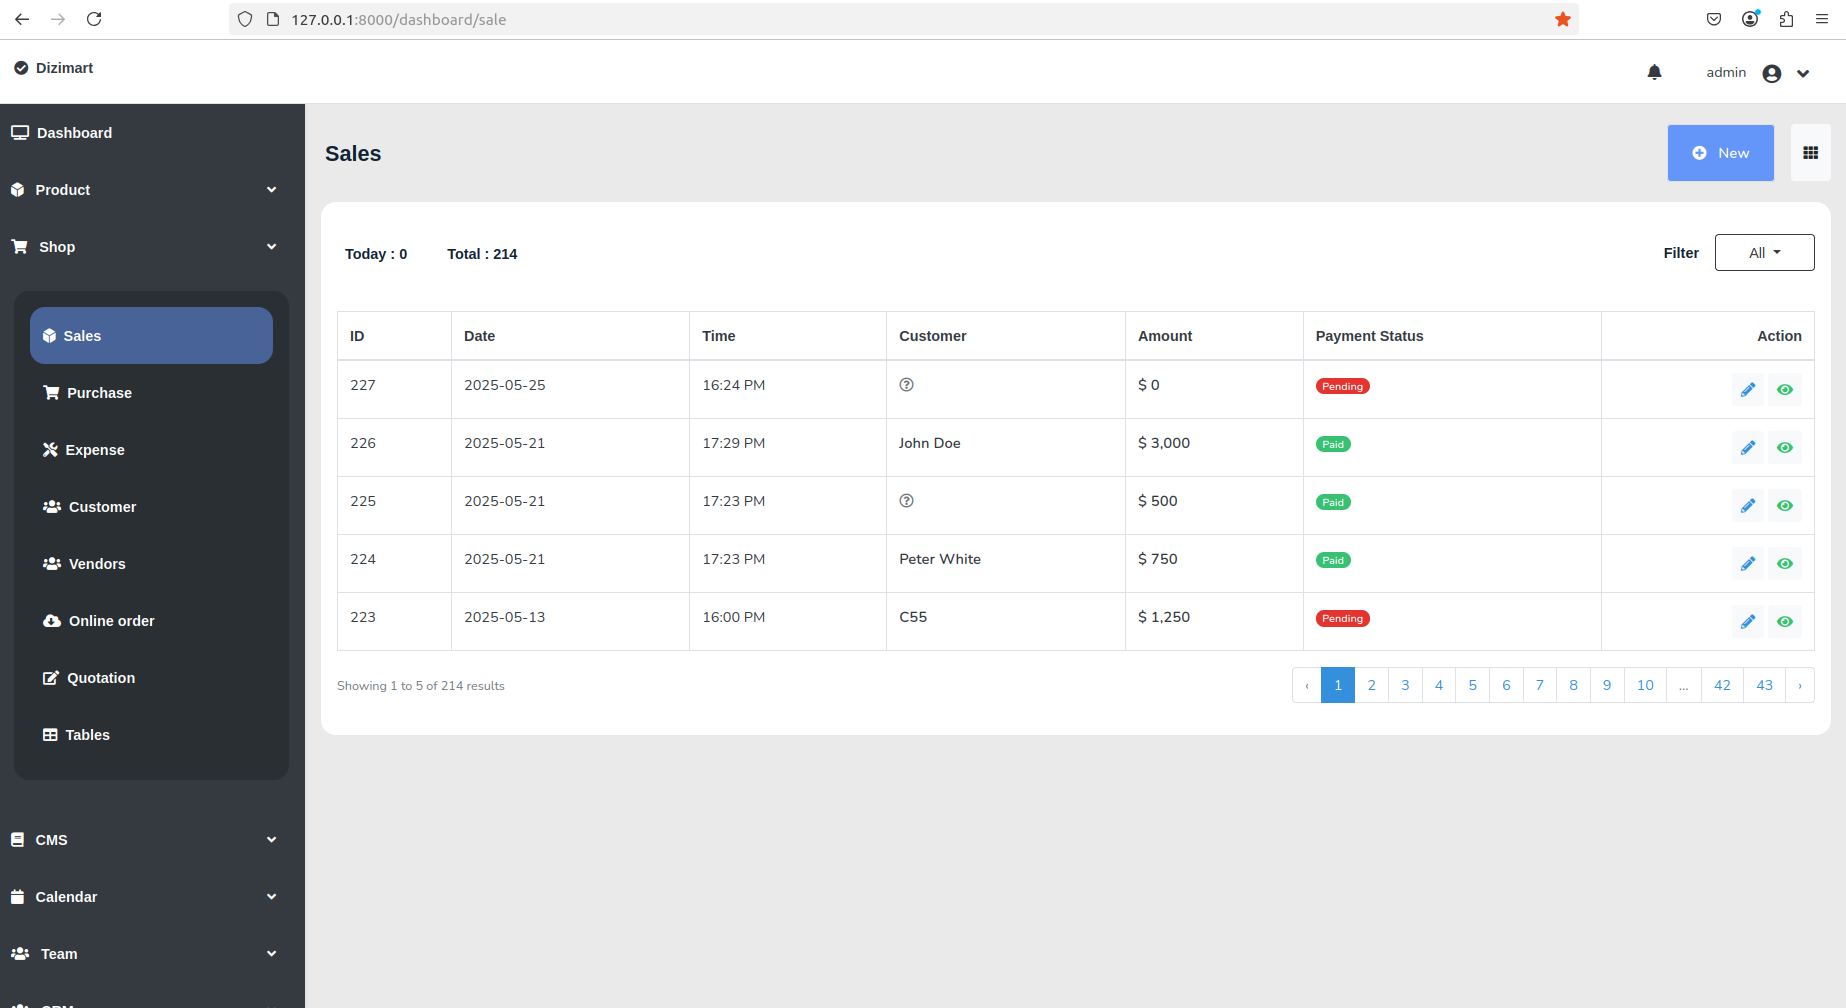
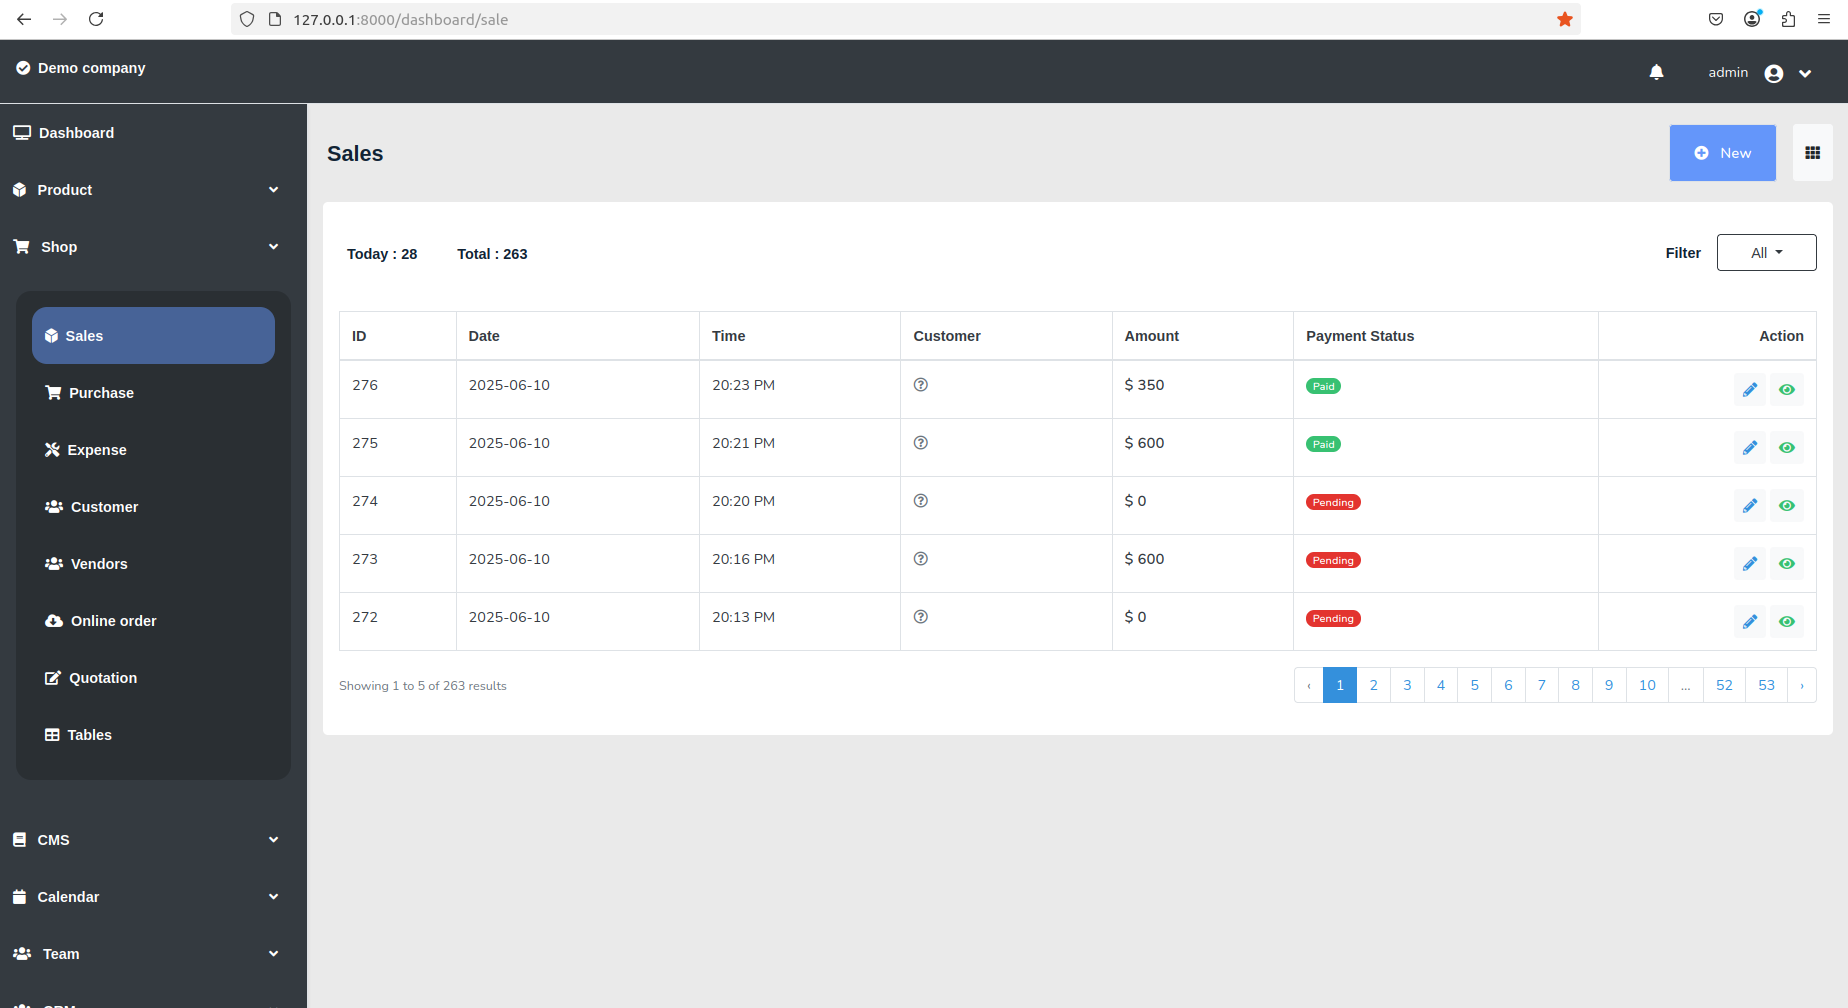
README updates; config update; screenshot updates

diff --git a/config/app.php b/config/app.php
@@ -83,8 +83,8 @@ return [
     'app_menu_normal_button_text_color'   => 'text-white',
     'app_menu_bg_color'                   => 'bg-dark',
 
-    'app_top_menu_bg_color'               => 'bg-white',
-    'app_top_menu_text_color'             => 'text-dark',
+    'app_top_menu_bg_color'               => 'bg-dark',
+    'app_top_menu_text_color'             => 'text-white',
 
     /*
     |--------------------------------------------------------------------------
@@ -95,7 +95,7 @@ return [
     |
     */
 
-    'transaction_currency' => 'US Dollar',
+    'transaction_currency' => 'USD',
     'transaction_currency_symbol' => '$',
 
     /*

diff --git a/README.md b/README.md
@@ -170,6 +170,7 @@ Below are some screenshots.
 
 ![screenshot](screenshots/dashboard-screenshot-1.png)
 ![screenshot](screenshots/screenshot-sale-invoice-list-1.png)
+![screenshot](screenshots/screenshot-sale-invoice-display-progress-1.png)
 ![screenshot](screenshots/screenshot-sale-invoice-display-finished-1.png)
 
 <!--
